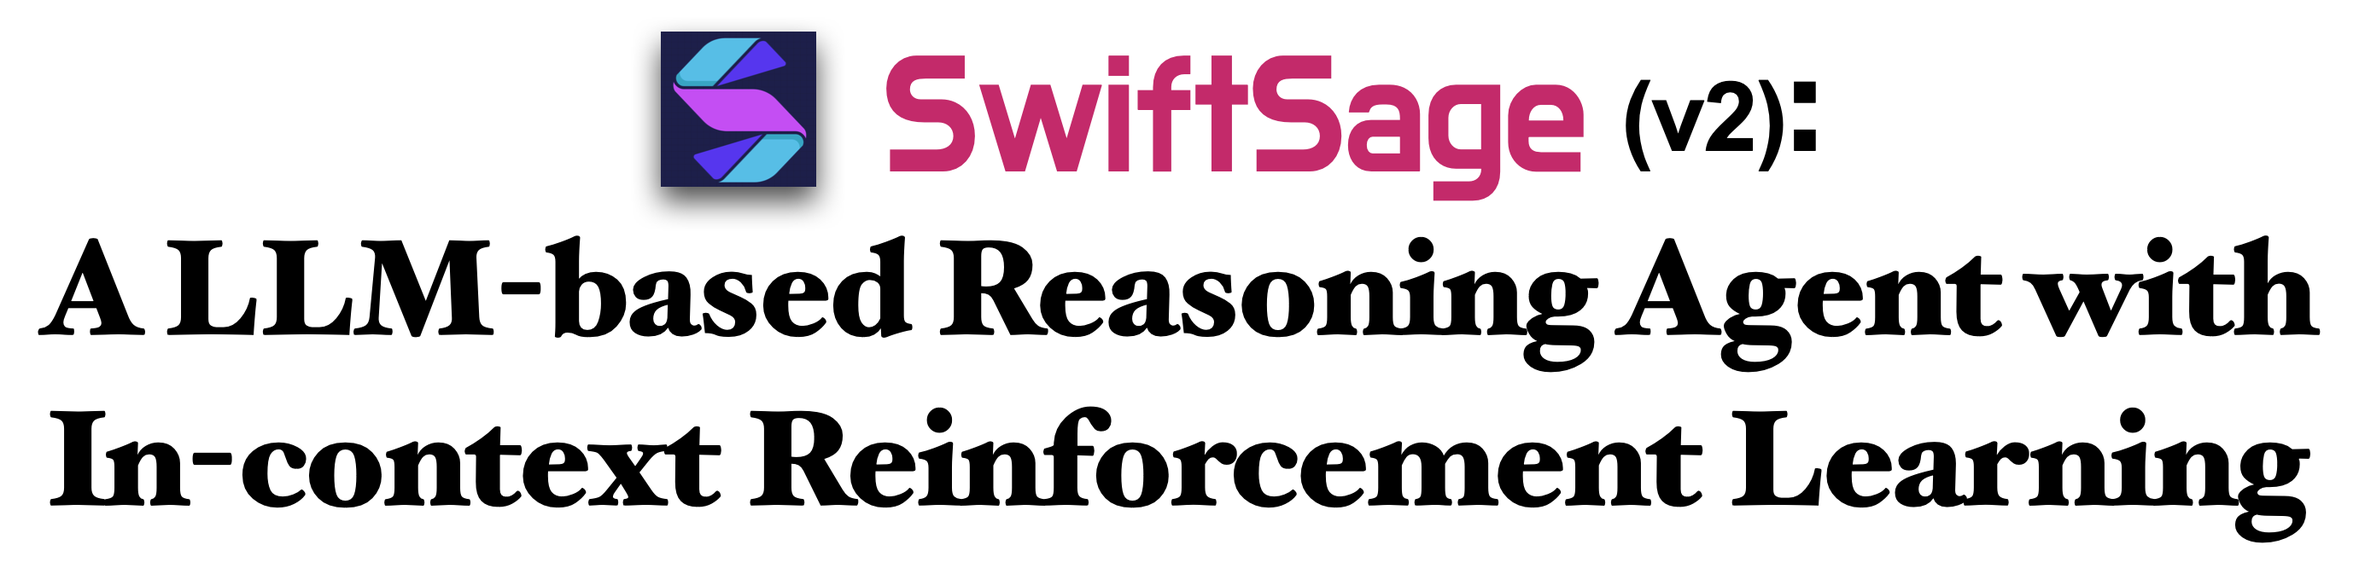
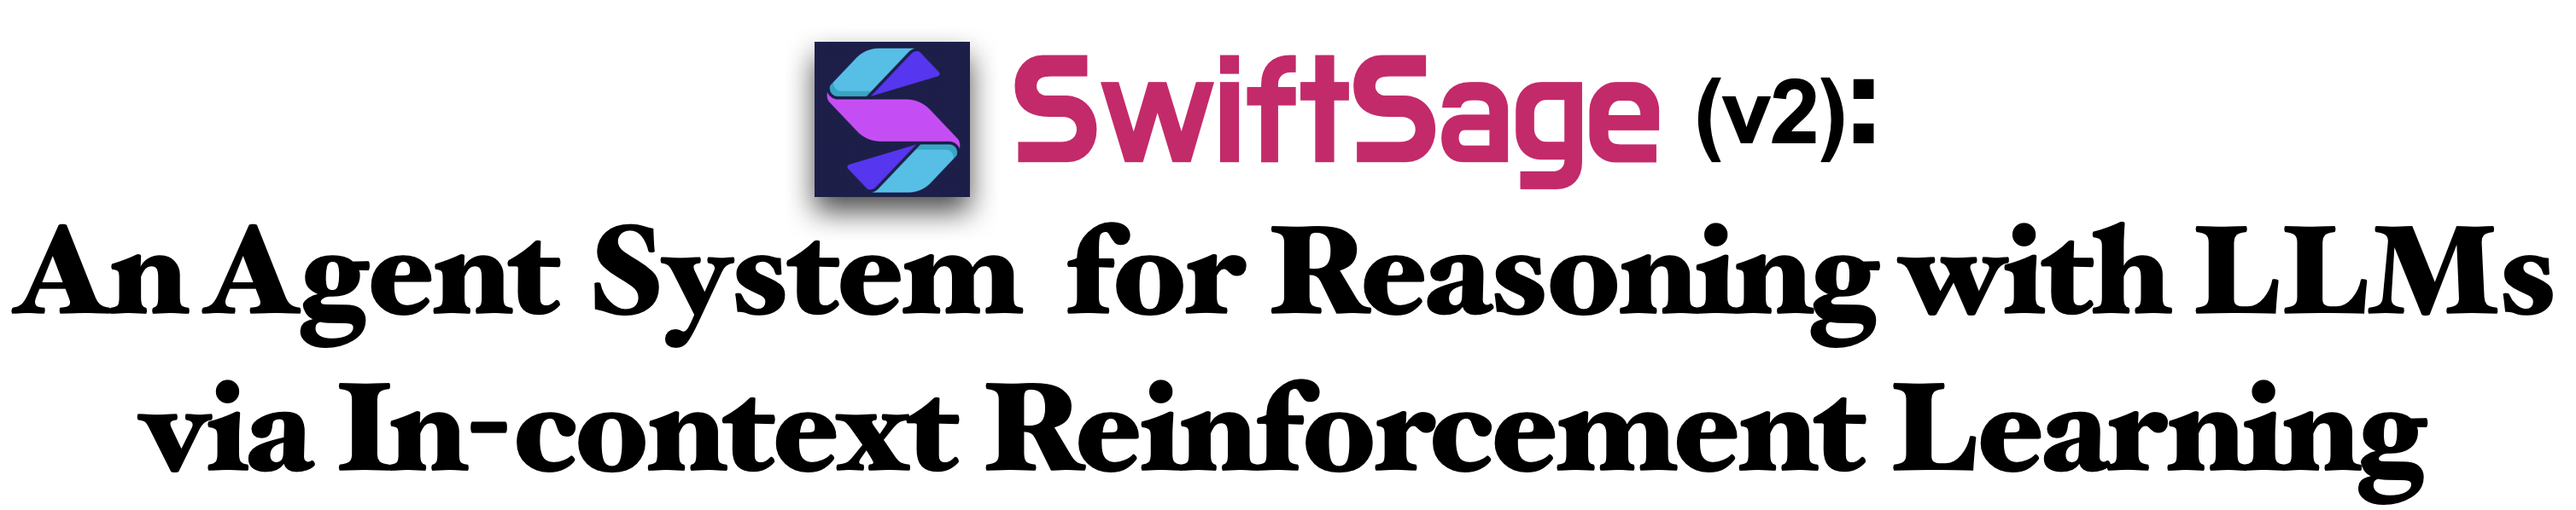
update

Changed region(s): [[0.0, 0.0301, 0.996, 0.6923], [0.0, 0.7224, 0.996, 0.9933], [0.7159, 0.7224, 0.7781, 0.7525]]

diff --git a/README.md b/README.md
@@ -1,4 +1,4 @@
-# 🤖 SwiftSage: A LLM-based Reasoning Agent with In-context Reinforcement Learning
+# 🤖 SwiftSage: An Agent System  for Reasoning with LLMs via In-context Reinforcement Learning 
 
 <!-- add a banner img for s2_banner.png -->
 <!-- add a banner img for s2_banner.png with a black border -->
